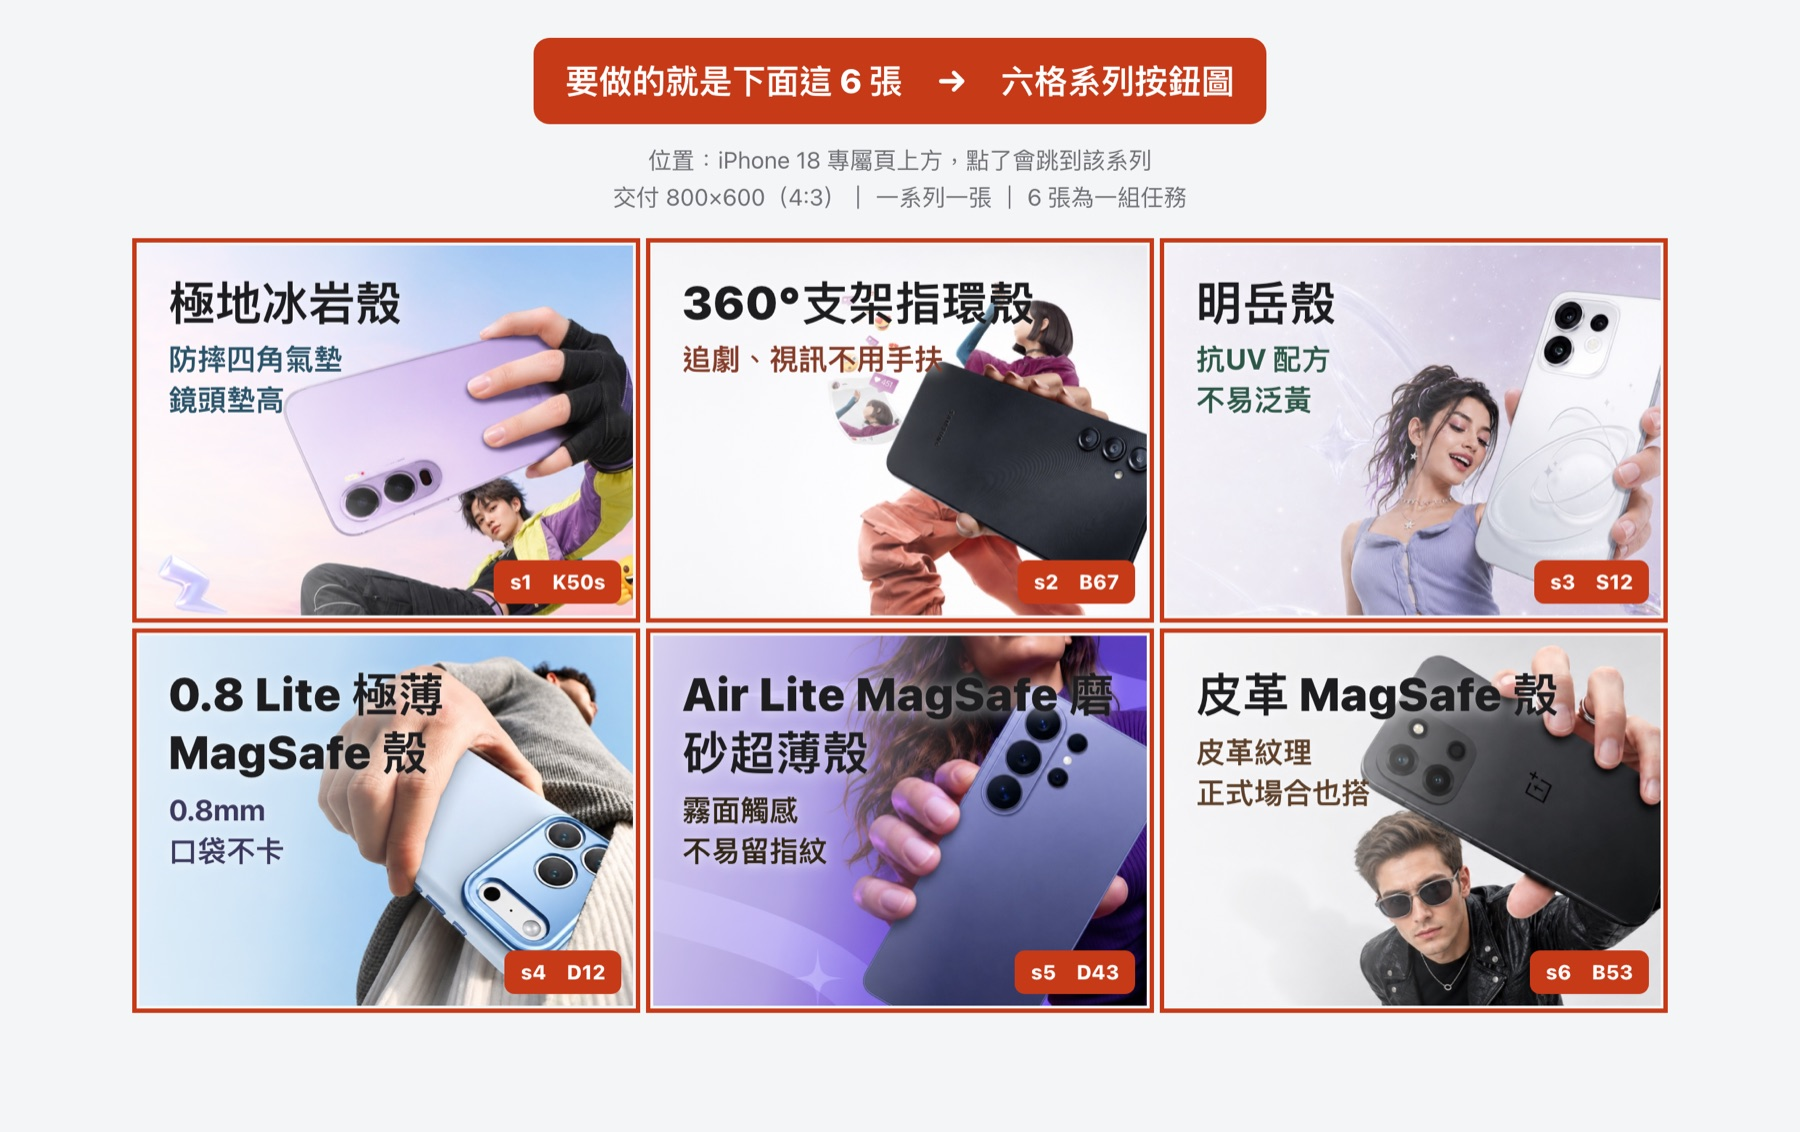
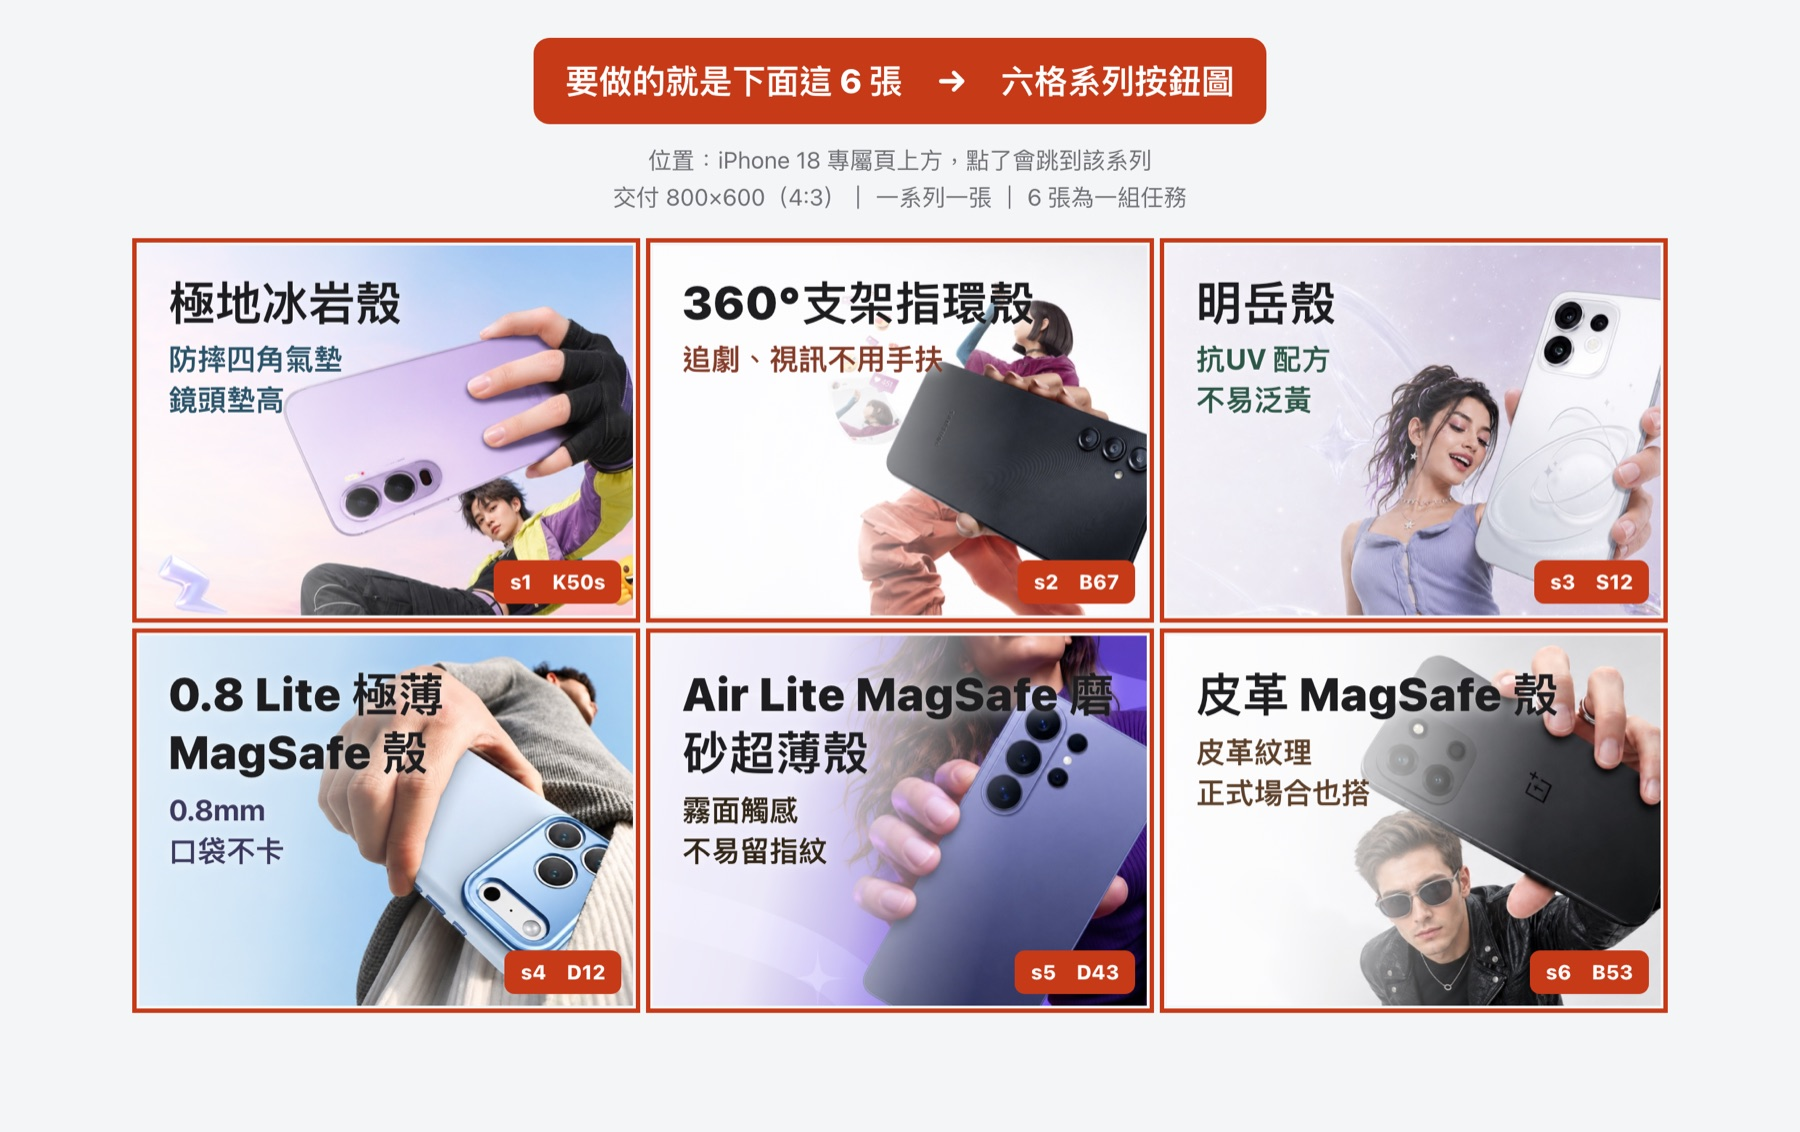
六格按鈕圖：對 s2／s5／s6 加強左上白霧，解決文字壓在手機上的問題
原本打算用 background-position 把畫面往右推讓手機讓開文字區，實測後放棄——
桌機卡片比例（padding-bottom:75% ＝ 1.333）與素材 800×600 完全相同，
cover 剛好塞滿、沒有任何裁切餘裕，background-position 在這個版位是無效的；
手機版（1.136）也只有左右各 7.4% 的移動範圍，不足以移開位於中央的手機。

改用設計本來就有的機制：.oc::before 的左上白霧。新增 .oc.wash-strong 變體
（不透明度由 .78/.52/.14 提高到 .95/.88/.62/.24，淡出點由 64% 延到 70%），
只套用在 s2／s5／s6 三張——這三張的手機主體偏中偏左。
s1／s3／s4 左上角本來就是天空、淡紫、淺藍，維持原本較淡的白霧，不被洗白。

素材日後換成符合「主體放右側 67–92%」的版本後，把 wash-strong 拿掉即可，
已在 CSS 註解寫明。

task-ov-6buttons.jpg 一併重生（Notion 任務卡引用此網址）。

殘留：s5「Air Lite MagSafe 磨砂超薄殼」與 s6「皮革 MagSafe 殼」標題較長，
末尾仍會延伸到手機上，但已可辨讀。那部分是標題長度問題，非白霧強度不足。

Changed region(s): [[0.3422, 0.2783, 0.5911, 0.8966], [0.7467, 0.5565, 0.84, 0.8966]]

diff --git a/iphone18-promo-prototype.html b/iphone18-promo-prototype.html
@@ -187,6 +187,13 @@ h1 span{color:inherit}
 .oc::before{content:"";position:absolute;inset:0;z-index:1;pointer-events:none;
   background:linear-gradient(104deg,rgba(255,255,255,.78) 0%,rgba(255,255,255,.52) 34%,
     rgba(255,255,255,.14) 52%,rgba(255,255,255,0) 64%)}
+/* ⚠ 部分素材的手機主體偏中偏左，會頂到左上角的文字。
+   桌機卡片比例 1.333 與素材 800×600 完全相同 → cover 不裁切，
+   background-position 在這個版位「完全無效」，推不動畫面。
+   所以改為加強白霧。只加在需要的卡上，避免把構圖乾淨的卡也洗白。
+   素材換成符合「主體放右側 67–92%」的版本後，把 wash-strong 拿掉即可。 */
+.oc.wash-strong::before{background:linear-gradient(104deg,rgba(255,255,255,.95) 0%,rgba(255,255,255,.88) 30%,rgba(255,255,255,.62) 46%,rgba(255,255,255,.24) 58%,rgba(255,255,255,0) 70%)}
+
 /* 文字層：疊在圖的前面（z-index 高於圖與柔光罩），限寬在手機左邊的留白區 */
 .oc-tx{position:absolute;z-index:2;top:0;left:0;max-width:80%;
   padding:12px 4px 0 12px;color:var(--ink)}
@@ -921,7 +928,7 @@ const FREE=599;
 
 /* 6 格總覽 */
 document.getElementById('ovg').innerHTML=S.map(s=>`
-<a class="oc" href="#${s.id}" aria-label="${s.ovH}"
+<a class="oc${["s2","s5","s6"].indexOf(s.id)>=0?" wash-strong":""}" href="#${s.id}" aria-label="${s.ovH}"
    style="--g1:${s.g1};--g2:${s.g2};--g3:${s.g3};background-image:url(${ORB[s.person]})">
   <span class="oc-tx">
     ${s.badge?`<span class="oc-bd">${s.badge}</span>`:''}
